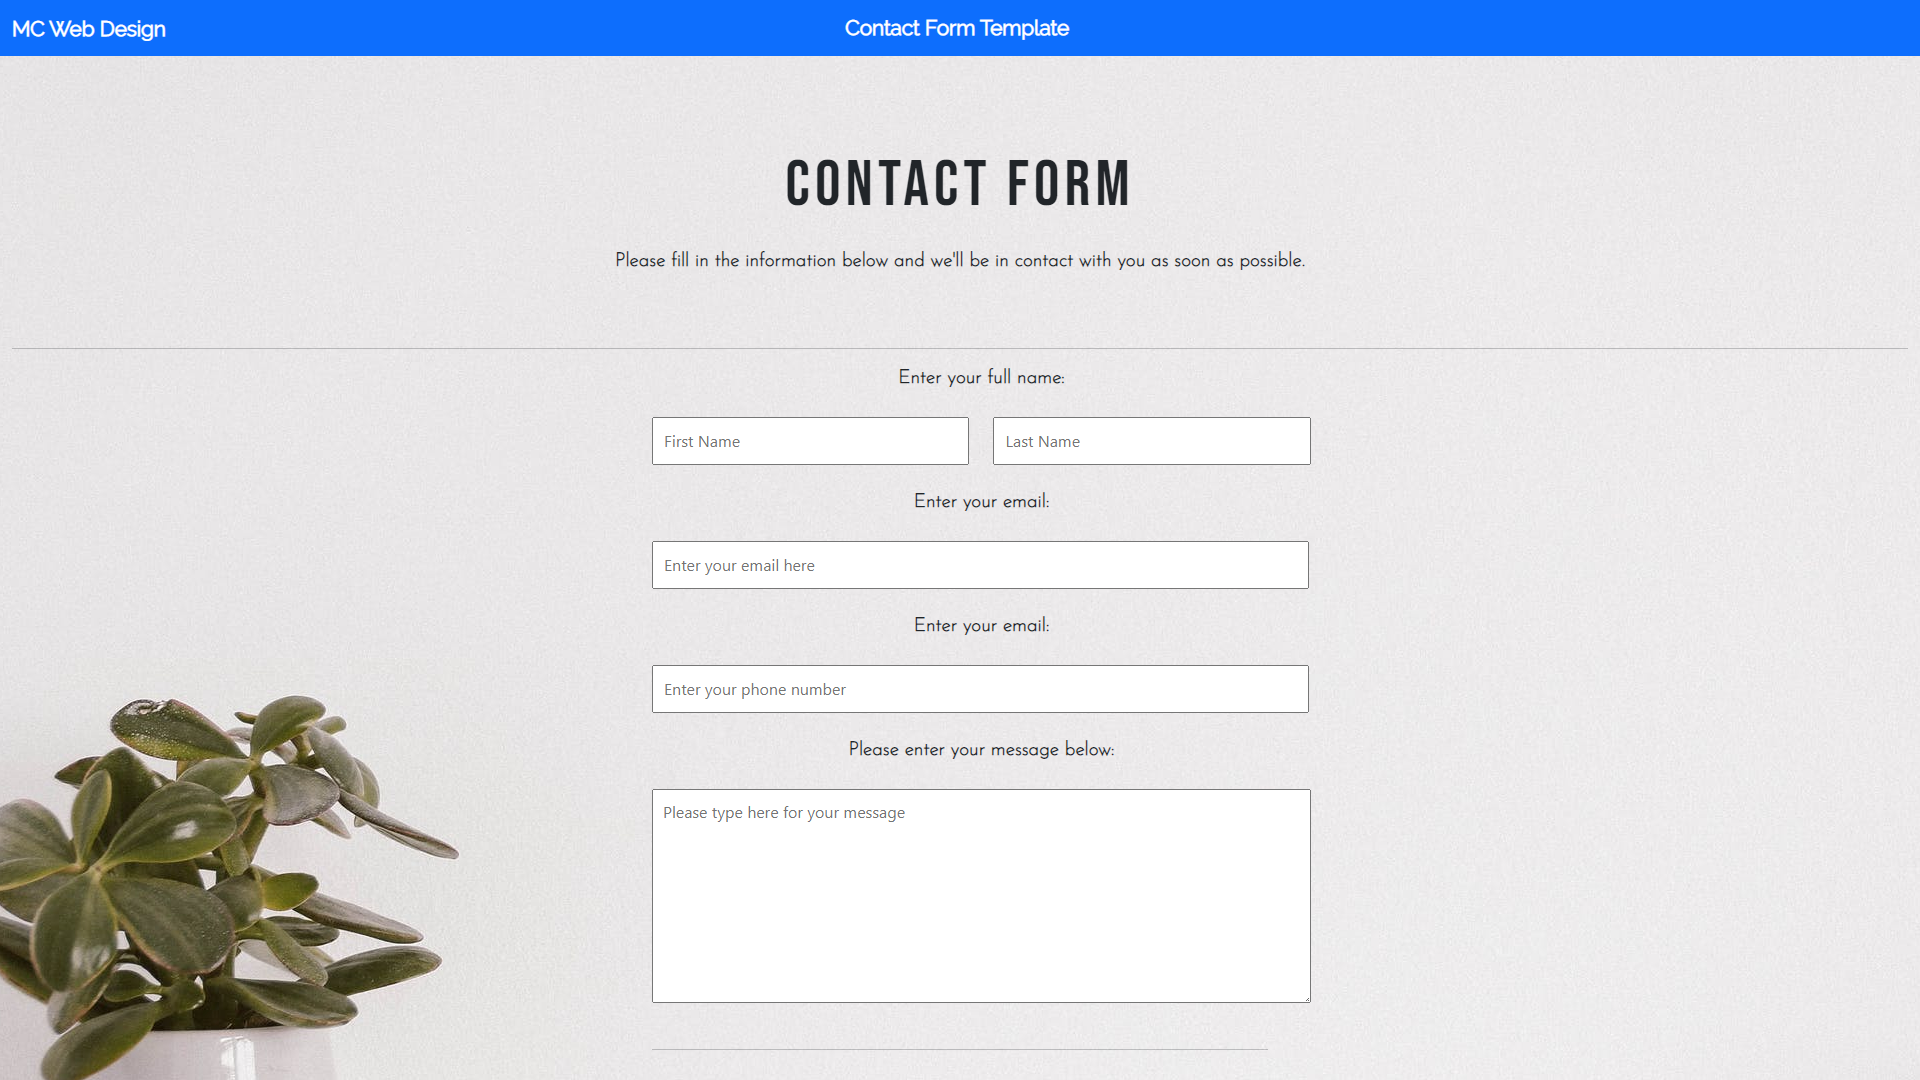
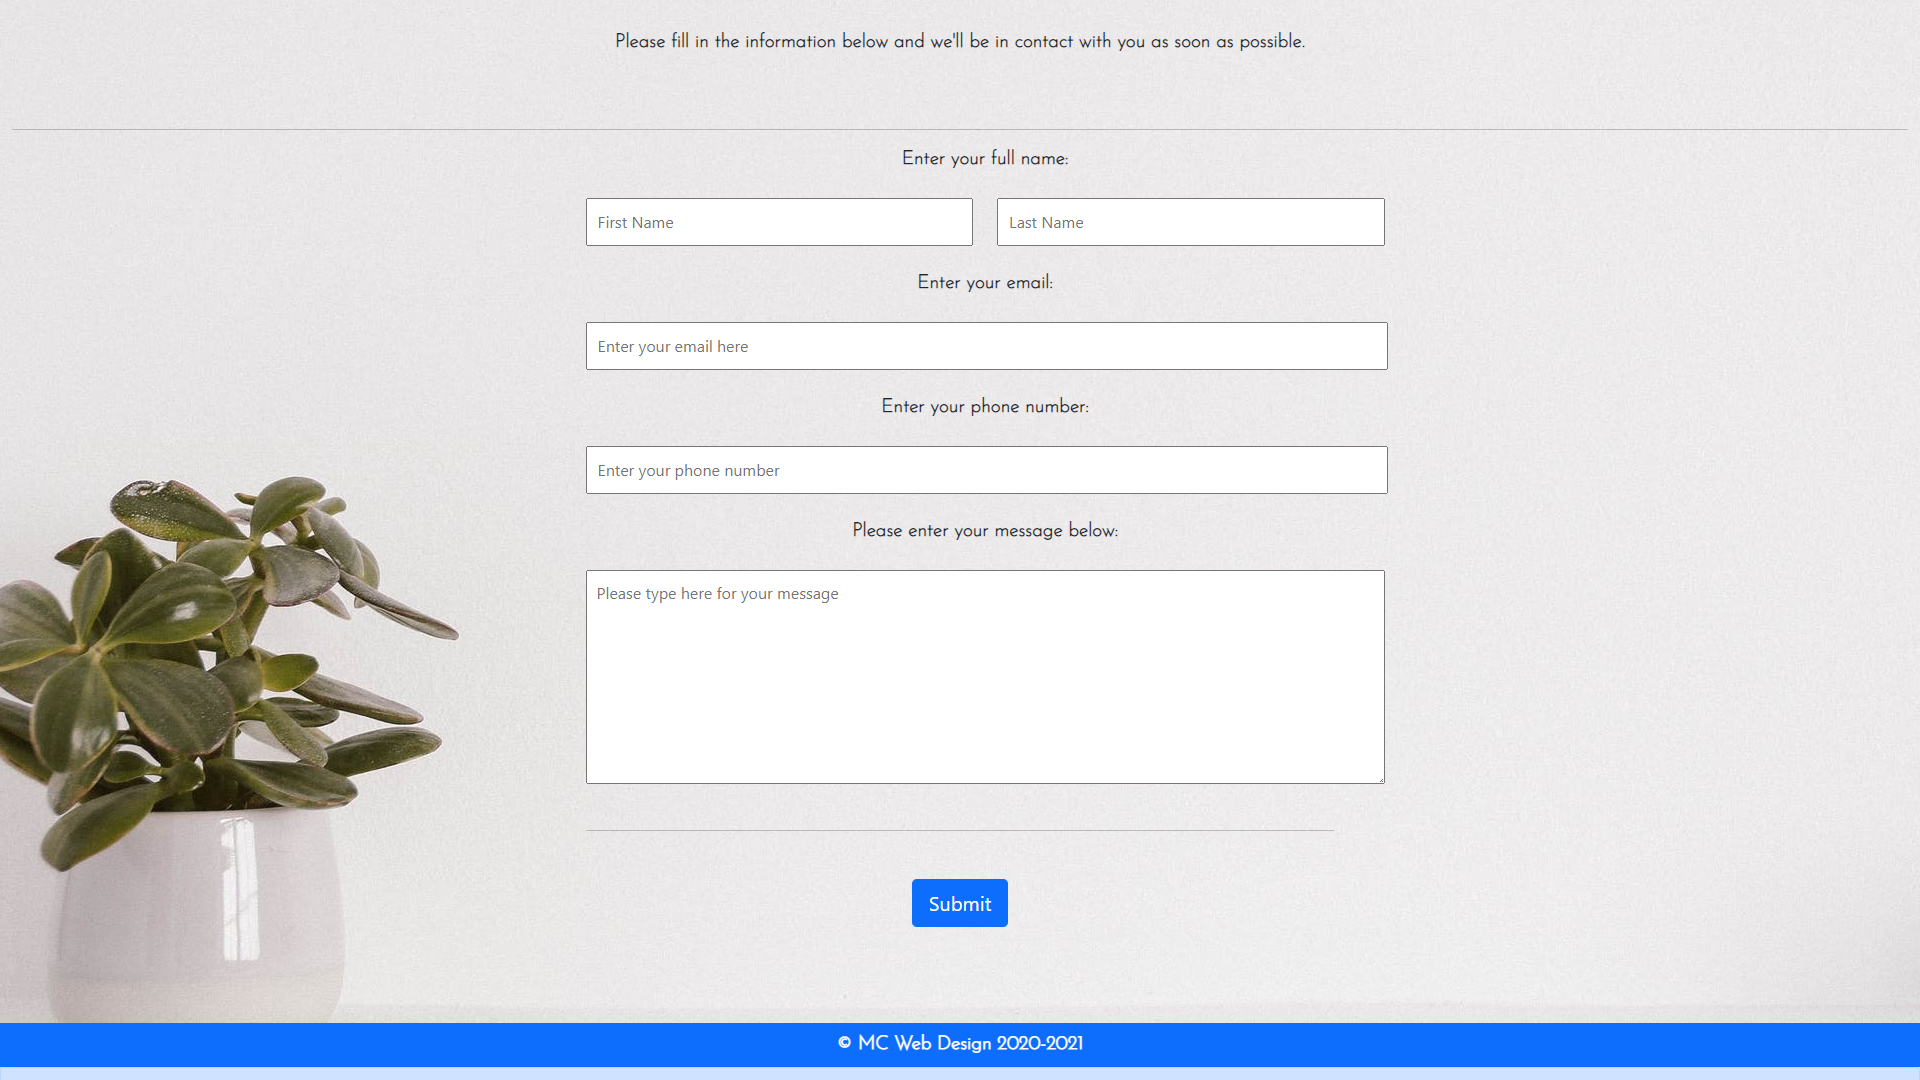
1

diff --git a/index.html b/index.html
@@ -656,7 +656,13 @@
 
           <!-- Second Column - Contact Form Section -->
 
-          <div id="contact-second-column" class="col-lg-6 ">
+
+
+
+          <div id="contact-second-column" class="col-lg-6 form-example">
+
+                    <form class="" action="index.html" method="post">
+                      
             <div class="row">
 
               <p class="font4">Contact Form</p>
@@ -666,7 +672,7 @@
               </div>
 
               <div class="input-group mb-4 contact-form-pad">
-                <input type="text" class="form-control" placeholder="Please enter your first and last name." aria-label="Text input with dropdown button">
+                <input type="text" class="form-control" placeholder="Please enter your first and last name." aria-label="Text input with dropdown button" required>
               </div>
             </div>
 
@@ -676,7 +682,7 @@
               </div>
 
               <div class="input-group mb-4">
-                <input type="email" class="form-control" placeholder="info@email.com" aria-label="Email Input">
+                <input type="email" class="form-control" placeholder="info@email.com" aria-label="Email Input" required>
               </div>
             </div>
 
@@ -690,12 +696,13 @@
               </div>
 
               <div class="btnpadleft">
-                <input class="btn btnfont btn-yellow btn-lg" type="submit" name="Send Message" value="Send Message">
+                <input class="btn btnfont btn-yellow btn-lg" type="submit" name="Send Message" value="Send Message" required>
               </div>
 
             </div>
-
+</form>
           </div>
+
 
         </div>
 
